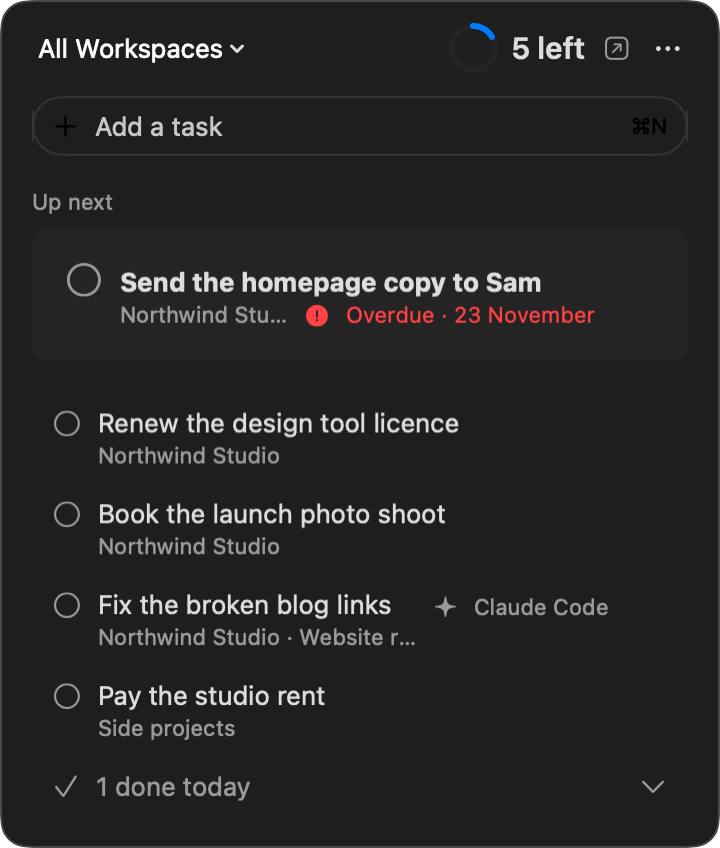
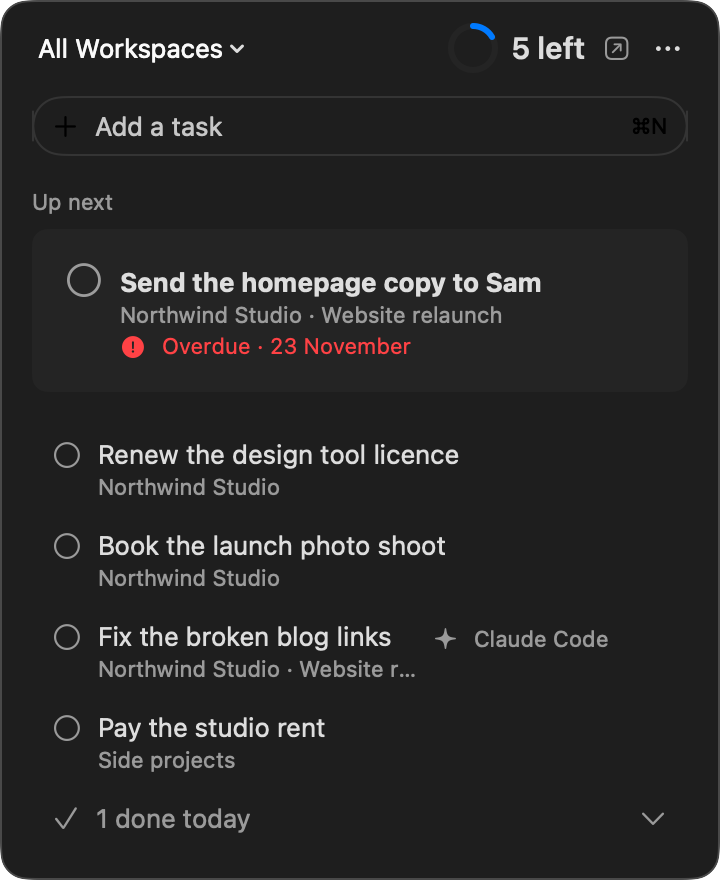
fix(macos): the offline strip clears the composer and the meta line wraps
The notice strip gets the field's vertical gap before the composer, and the
meta line puts the overdue label on a second line when both do not fit,
instead of truncating the project.

diff --git a/apps/macos/Todz/MenuBar/MenuBarRowMetaLine.swift b/apps/macos/Todz/MenuBar/MenuBarRowMetaLine.swift
@@ -10,20 +10,24 @@ struct MenuBarRowMetaLine: View {
     @Environment(AppModel.self) private var model
 
     var body: some View {
-        HStack {
-            if let tag = meta.tag {
-                Text(tag)
-            }
-            if let overdue = meta.overdue {
-                Label(DueLabel.text(dueDate: overdue, today: model.today, timeZone: model.timeZone), systemImage: overdueSymbol)
-                    .foregroundStyle(.red)
-                    .layoutPriority(1)
-            }
+        ViewThatFits(in: .horizontal) {
+            HStack { parts }
+            VStack(alignment: .leading) { parts }
         }
         .font(.subheadline)
         .foregroundStyle(.secondary)
         .lineLimit(1)
         .truncationMode(.tail)
+    }
+
+    @ViewBuilder private var parts: some View {
+        if let tag = meta.tag {
+            Text(tag)
+        }
+        if let overdue = meta.overdue {
+            Label(DueLabel.text(dueDate: overdue, today: model.today, timeZone: model.timeZone), systemImage: overdueSymbol)
+                .foregroundStyle(.red)
+        }
     }
 }
 

diff --git a/apps/macos/Todz/MenuBar/MenuBarToday.swift b/apps/macos/Todz/MenuBar/MenuBarToday.swift
@@ -81,6 +81,7 @@ struct MenuBarToday: View {
                 .padding(.vertical, FormMetrics.fieldVerticalPadding)
                 .background(.fill.quaternary, in: Capsule())
                 .padding(.horizontal)
+                .padding(.bottom, FormMetrics.fieldVerticalPadding)
         case .none:
             EmptyView()
         }
